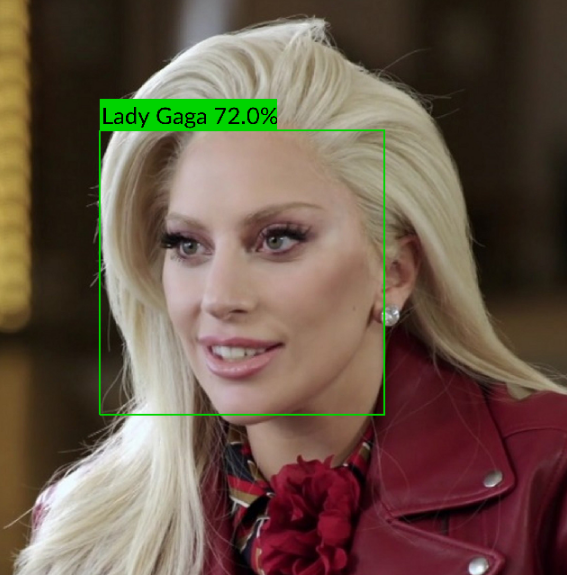
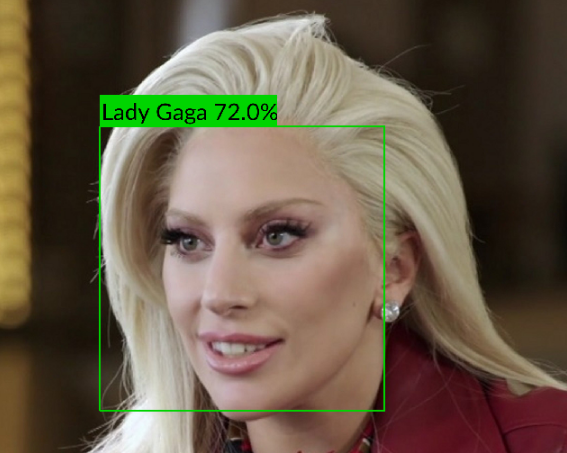
add post

diff --git a/post/aws-recognition-api/index.html b/post/aws-recognition-api/index.html
@@ -502,7 +502,7 @@
 </div>
 
 
-<div class="article-header article-container featured-image-wrapper mt-4 mb-4" style="max-width: 567px; max-height: 575px;">
+<div class="article-header article-container featured-image-wrapper mt-4 mb-4" style="max-width: 567px; max-height: 453px;">
   <div style="position: relative">
     <img src="/post/aws-recognition-api/featured.png" alt="" class="featured-image">
     

diff --git a/index.html b/index.html
@@ -1186,7 +1186,7 @@
     
     
     <a href="/post/aws-recognition-api/" >
-      <img src="/post/aws-recognition-api/featured_hu4ad811eb6c820a641df2ef672d2d60e5_464651_150x0_resize_lanczos_2.png" alt="">
+      <img src="/post/aws-recognition-api/featured_huce8955319968d5919914c5563687c6b5_311734_150x0_resize_lanczos_2.png" alt="">
     </a>
     
   </div>

diff --git a/post/index.html b/post/index.html
@@ -469,7 +469,7 @@
     
     
     <a href="/post/aws-recognition-api/" >
-      <img src="/post/aws-recognition-api/featured_hu4ad811eb6c820a641df2ef672d2d60e5_464651_150x0_resize_lanczos_2.png" alt="">
+      <img src="/post/aws-recognition-api/featured_huce8955319968d5919914c5563687c6b5_311734_150x0_resize_lanczos_2.png" alt="">
     </a>
     
   </div>
